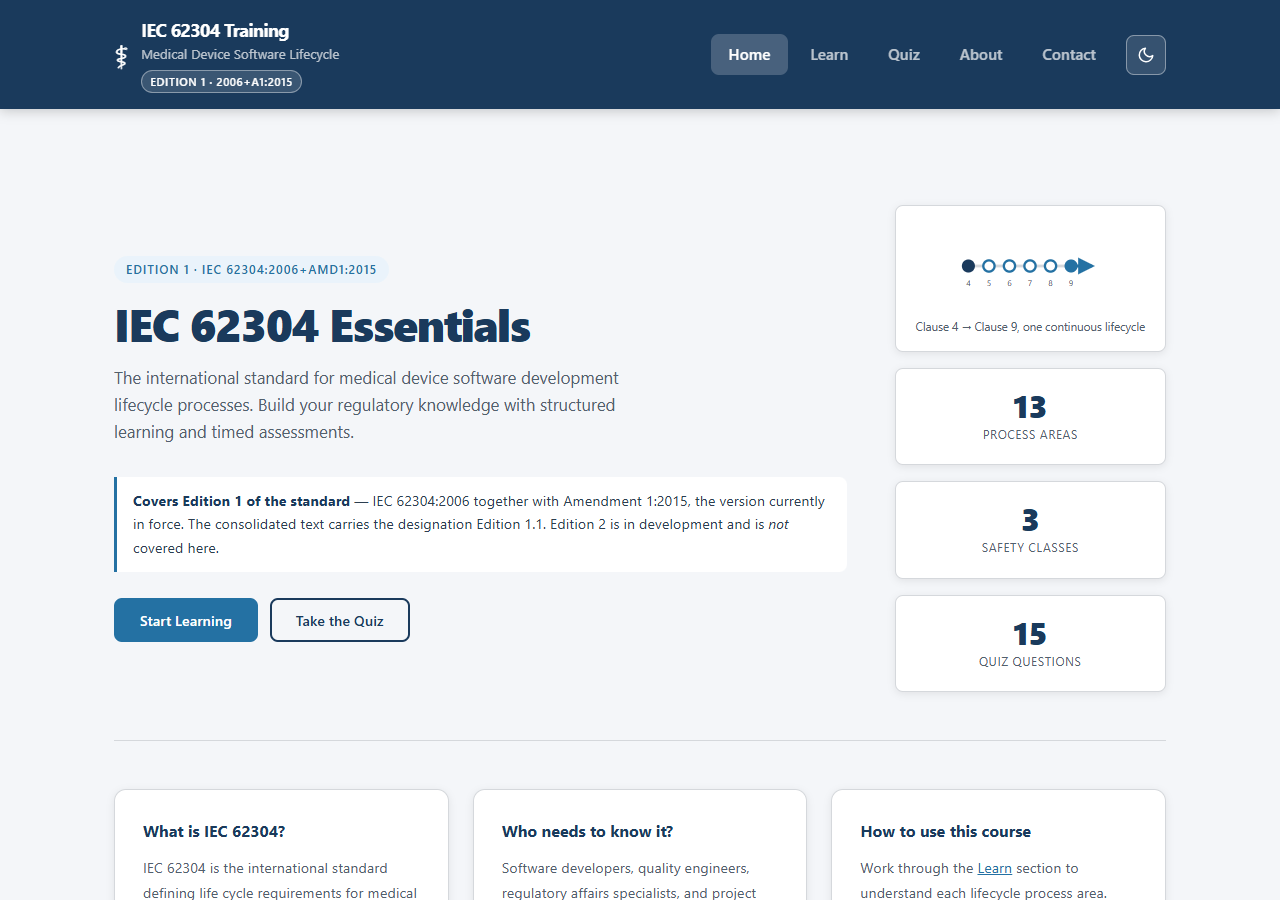
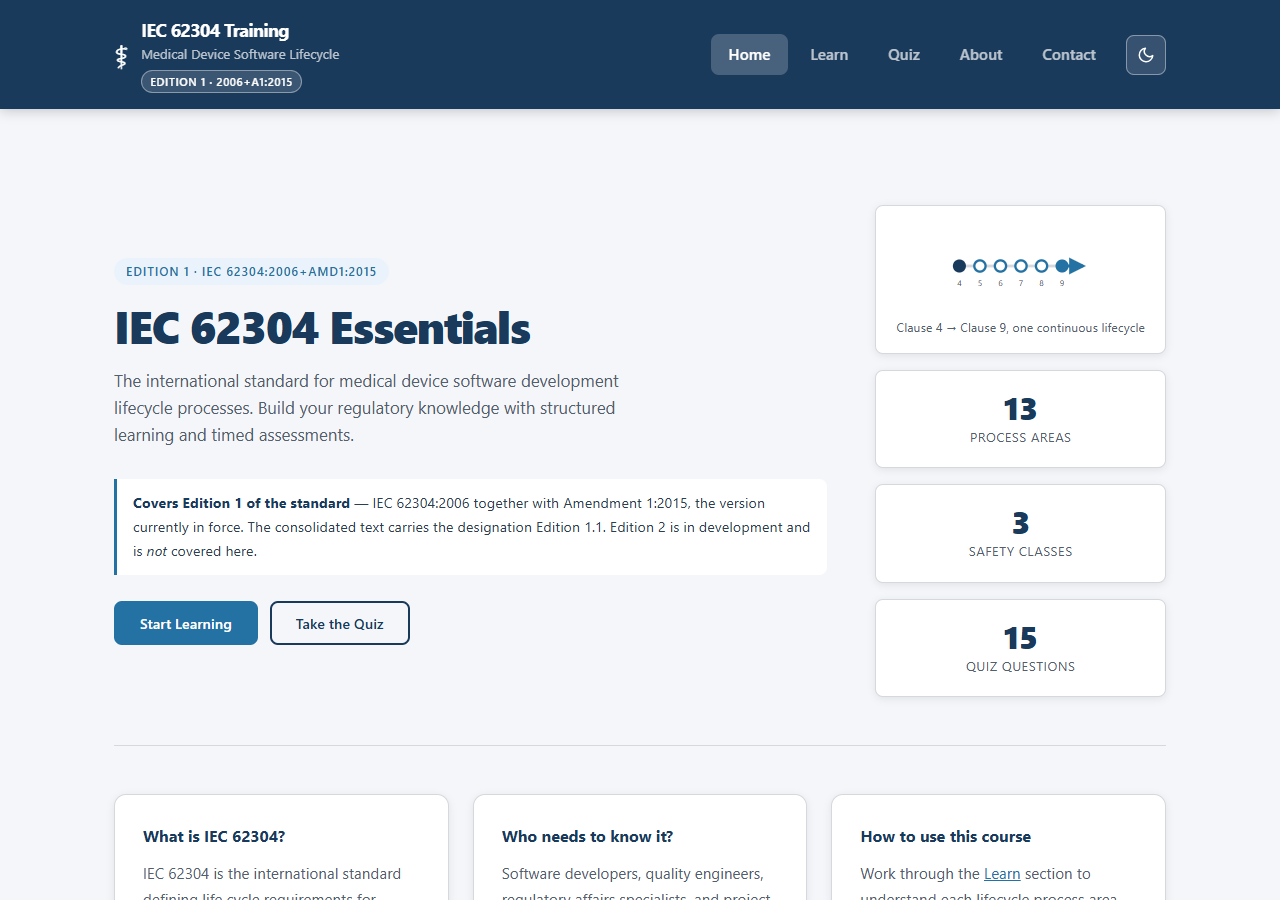
Review font sizes and increase REM slightly across a range of types (e.g. cards, etc.). Readme file updated with screen shots.

diff --git a/style.css b/style.css
@@ -266,7 +266,7 @@ a {
   background: var(--primary);
   color: white;
   padding: 10px 24px;
-  font-size: 0.72rem;
+  font-size: 0.78rem;
   font-weight: 700;
   text-transform: uppercase;
   letter-spacing: 0.06em;
@@ -294,7 +294,7 @@ a {
 
 .promo-eyebrow {
   display: block;
-  font-size: 0.7rem;
+  font-size: 0.78rem;
   font-weight: 700;
   text-transform: uppercase;
   letter-spacing: 0.06em;
@@ -315,7 +315,7 @@ a {
 }
 
 .promo-list li {
-  font-size: 0.85rem;
+  font-size: 0.9rem;
   line-height: 1.55;
   color: var(--text);
   padding-left: 16px;
@@ -333,7 +333,7 @@ a {
 
 .promo-cta {
   display: inline-block;
-  font-size: 0.85rem;
+  font-size: 0.9rem;
   font-weight: 600;
   color: var(--accent);
   text-decoration: underline;
@@ -757,7 +757,7 @@ a {
 
 .stat-label {
   display: block;
-  font-size: 0.75rem;
+  font-size: 0.8rem;
   color: var(--text-muted);
   margin-top: 4px;
   text-transform: uppercase;
@@ -782,7 +782,7 @@ a {
 
 .flow-caption {
   display: block;
-  font-size: 0.72rem;
+  font-size: 0.78rem;
   color: var(--text-muted);
   margin-top: 10px;
   line-height: 1.5;
@@ -812,7 +812,7 @@ a {
 }
 
 .info-card p {
-  font-size: 0.9rem;
+  font-size: 0.95rem;
   color: var(--text-muted);
   line-height: 1.7;
 }
@@ -1009,7 +1009,7 @@ a {
 
 .deliverables-count {
   color: rgba(255, 255, 255, 0.85);
-  font-size: 0.8rem;
+  font-size: 0.84rem;
   margin-right: auto; /* pushes the buttons to the far edge */
 }
 
@@ -1019,7 +1019,7 @@ a {
   color: #ffffff;
   border-radius: var(--radius);
   padding: 5px 12px;
-  font-size: 0.8rem;
+  font-size: 0.84rem;
   font-weight: 600;
   font-family: inherit;
   cursor: pointer;
@@ -1045,12 +1045,12 @@ a {
 .dl-table {
   width: 100%;
   border-collapse: collapse;
-  font-size: 0.84rem;
+  font-size: 0.9rem;
 }
 
 .dl-table thead th {
   text-align: left;
-  font-size: 0.72rem;
+  font-size: 0.78rem;
   text-transform: uppercase;
   letter-spacing: 0.05em;
   color: var(--text-muted);
@@ -1290,7 +1290,7 @@ a {
 .sc-table {
   width: 100%;
   border-collapse: collapse;
-  font-size: 0.82rem;
+  font-size: 0.88rem;
 }
 
 /* The caption doubles as the table's accessible name, so it is kept visible
@@ -1299,7 +1299,7 @@ a {
 .sc-table caption {
   caption-side: top;
   text-align: left;
-  font-size: 0.78rem;
+  font-size: 0.82rem;
   color: var(--text-muted);
   line-height: 1.5;
   padding-bottom: 10px;
@@ -1307,7 +1307,7 @@ a {
 
 .sc-table thead th {
   text-align: left;
-  font-size: 0.72rem;
+  font-size: 0.78rem;
   text-transform: uppercase;
   letter-spacing: 0.05em;
   color: var(--heading);
@@ -1722,7 +1722,7 @@ a {
 }
 
 .phase-clause {
-  font-size: 0.72rem;
+  font-size: 0.78rem;
   font-weight: 700;
   text-transform: uppercase;
   letter-spacing: 0.08em;
@@ -1732,14 +1732,14 @@ a {
 }
 
 .phase-title {
-  font-size: 0.98rem;
+  font-size: 1.02rem;
   font-weight: 700;
   color: var(--heading);
   margin-bottom: 6px;
 }
 
 .phase-summary {
-  font-size: 0.83rem;
+  font-size: 0.9rem;
   color: var(--text-muted);
   line-height: 1.5;
 }
@@ -1752,7 +1752,7 @@ a {
 }
 
 .class-badge {
-  font-size: 0.7rem;
+  font-size: 0.74rem;
   font-weight: 700;
   padding: 2px 8px;
   border-radius: 10px;
@@ -1791,7 +1791,7 @@ a {
 }
 
 .phase-details ul li {
-  font-size: 0.85rem;
+  font-size: 0.9rem;
   color: var(--text);
   padding: 7px 0 7px 22px;
   border-bottom: 1px solid var(--bg);
@@ -2211,7 +2211,7 @@ a {
 }
 
 .breakdown-label {
-  font-size: 0.75rem;
+  font-size: 0.8rem;
   color: var(--text-muted);
   text-transform: uppercase;
   letter-spacing: 0.05em;
@@ -2283,7 +2283,7 @@ a {
 
 .form-group label {
   display: block;
-  font-size: 0.85rem;
+  font-size: 0.9rem;
   font-weight: 600;
   color: var(--text);
   margin-bottom: 6px;
@@ -2682,7 +2682,7 @@ a {
 
 .qual-card-eyebrow {
   display: block;
-  font-size: 0.7rem;
+  font-size: 0.78rem;
   font-weight: 700;
   text-transform: uppercase;
   letter-spacing: 0.06em;
@@ -2697,7 +2697,7 @@ a {
 }
 
 .qual-card p {
-  font-size: 0.88rem;
+  font-size: 0.93rem;
   color: var(--text-muted);
   line-height: 1.65;
 }
@@ -2887,7 +2887,7 @@ a {
 
 .example-banner-label {
   color: #ffffff;
-  font-size: 0.78rem;
+  font-size: 0.82rem;
   font-weight: 700;
   text-transform: uppercase;
   letter-spacing: 0.06em;
@@ -2899,7 +2899,7 @@ a {
 
 .example-banner-content p {
   margin: 0;
-  font-size: 0.88rem;
+  font-size: 0.93rem;
   line-height: 1.65;
   color: var(--text);
 }
@@ -2929,7 +2929,7 @@ a {
 }
 
 .example-doc-label {
-  font-size: 0.84rem;
+  font-size: 0.9rem;
   line-height: 1.6;
   color: var(--text-muted);
   margin-bottom: 10px;
@@ -2947,7 +2947,7 @@ a {
 
 .example-doc-actions .btn {
   padding: 8px 16px;
-  font-size: 0.82rem;
+  font-size: 0.86rem;
 }
 
 /* Deliberately quieter than the Preview/Download buttons above it — this is
@@ -2956,7 +2956,7 @@ a {
    buildExampleDocBlock in learn.js). */
 .example-doc-real-template {
   margin-top: 10px;
-  font-size: 0.8rem;
+  font-size: 0.86rem;
   color: var(--text-muted);
 }
 
